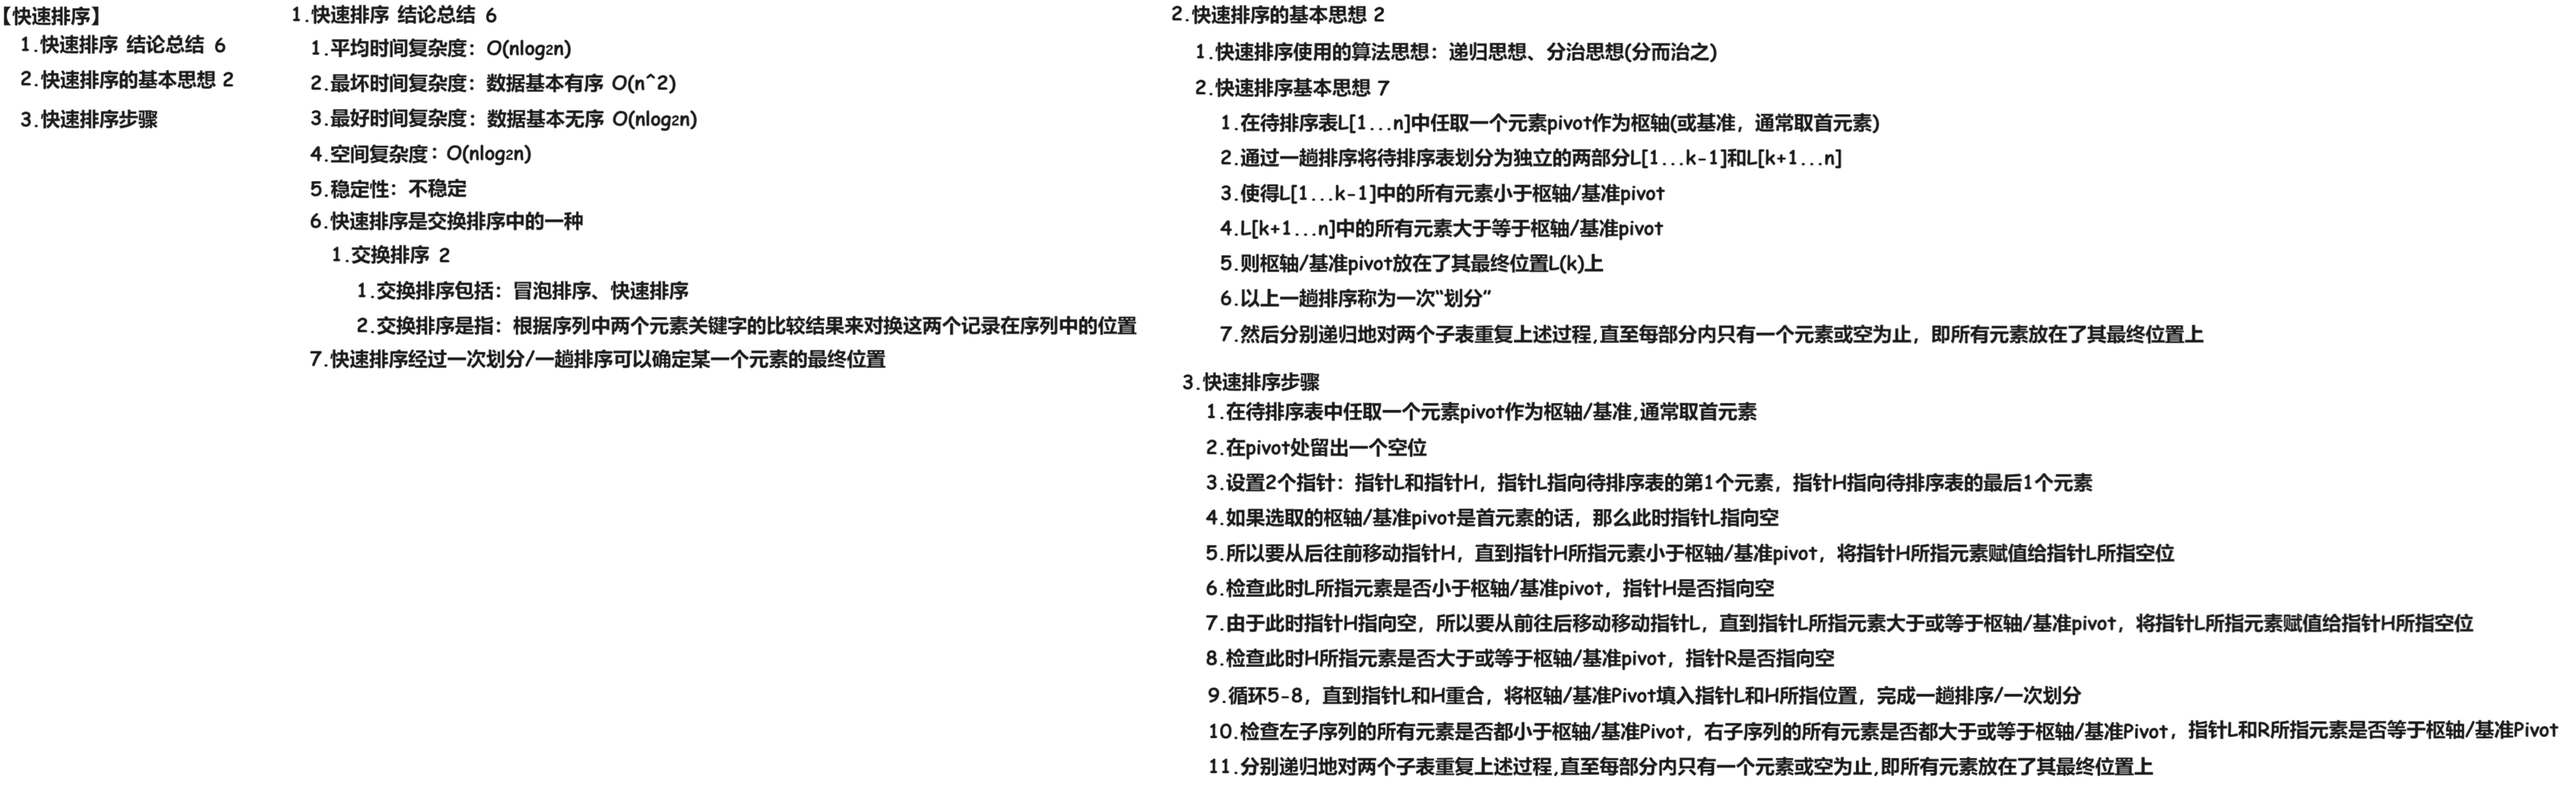
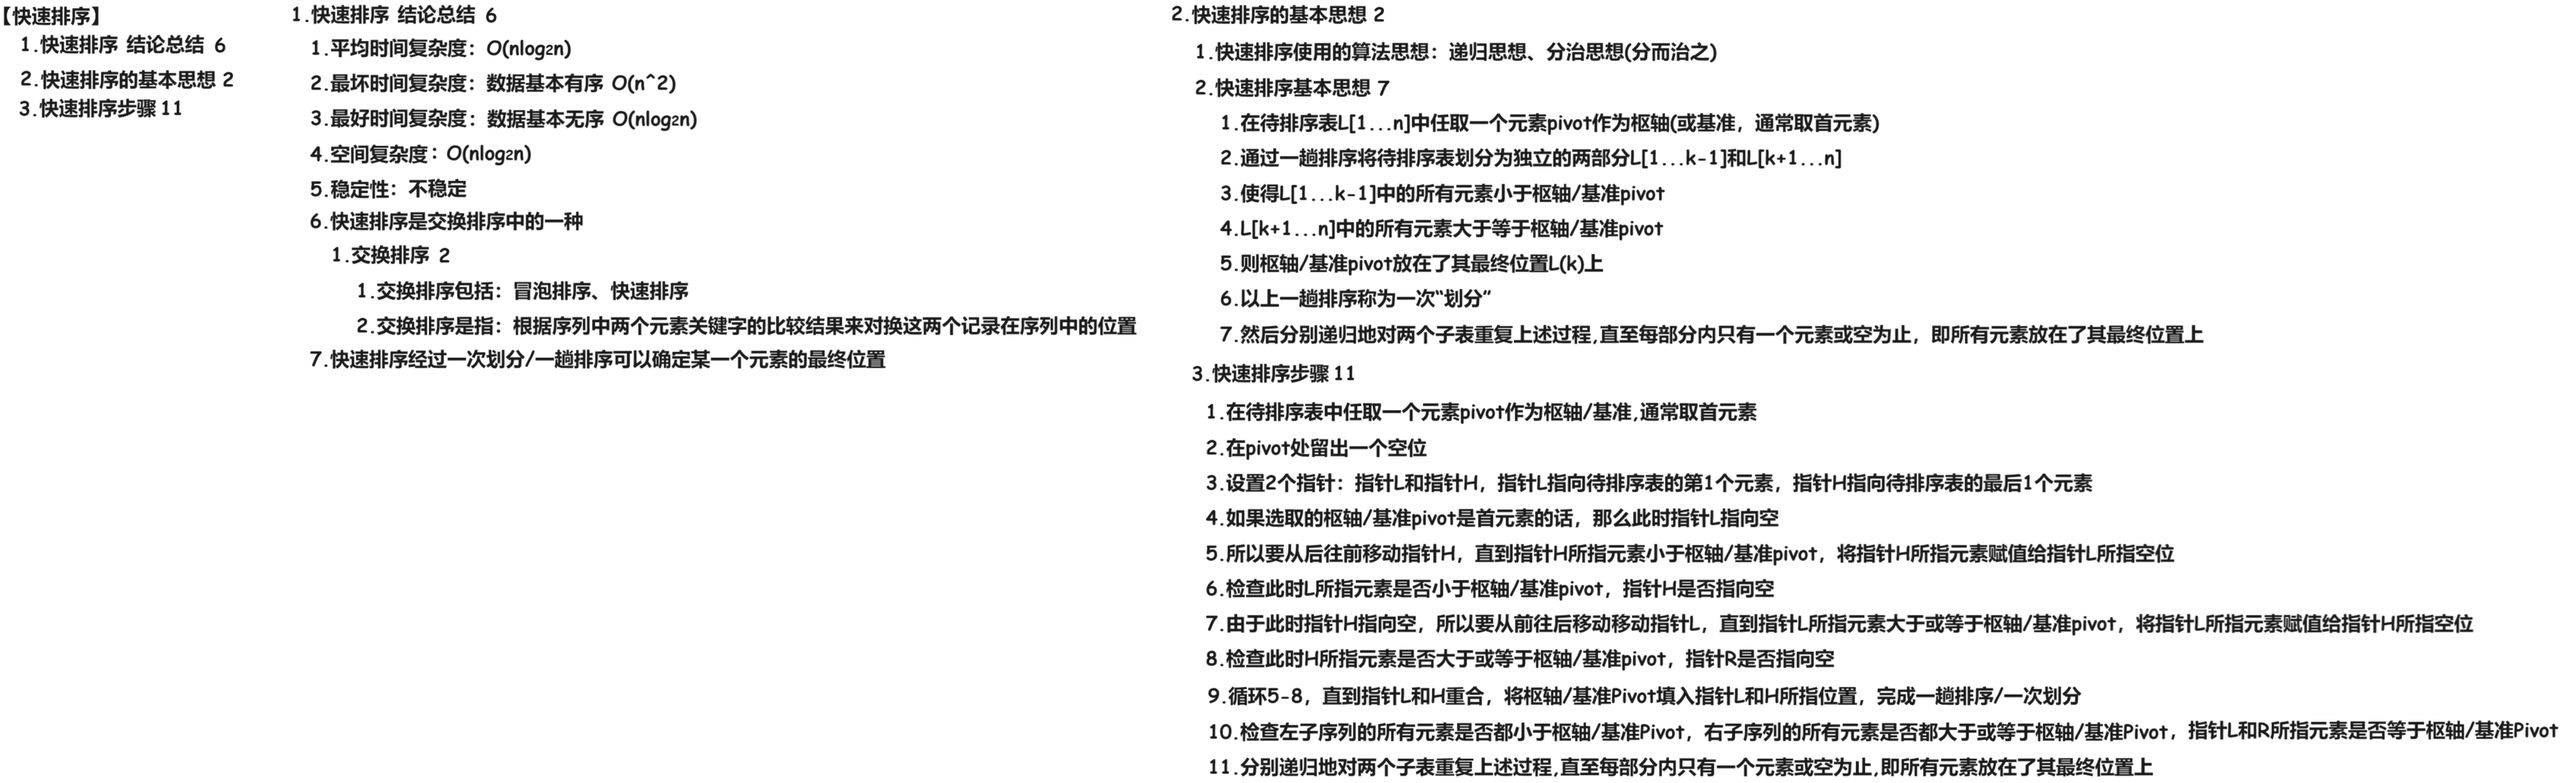
240301

Changed region(s): [[0.0933, 0.0, 1.0, 1.0], [0.0, 0.0, 0.0933, 0.1847]]

diff --git a/02 DS/01 题集/02 专题/03 快速排序 240301/01 知识点/01 快速排序/02 Doc.md b/02 DS/01 题集/02 专题/03 快速排序 240301/01 知识点/01 快速排序/02 Doc.md
@@ -1,5 +1,15 @@
 # 01 快速排序
 
+<img src="https://cvp.oss-cn-shanghai.aliyuncs.com/picgo/202403011852563.png" alt="image-20240301185233339" style="zoom:50%;" />
+
 
 
 # 02 快速排序示例
+
+<img src="https://cvp.oss-cn-shanghai.aliyuncs.com/picgo/202403011848325.png" alt="image-20240301184837735" style="zoom:50%;" />
+
+
+
+# 03 王道强化 快速排序示例
+
+<img src="https://cvp.oss-cn-shanghai.aliyuncs.com/picgo/202403011850980.png" alt="image-20240301185024881" style="zoom: 67%;" />
